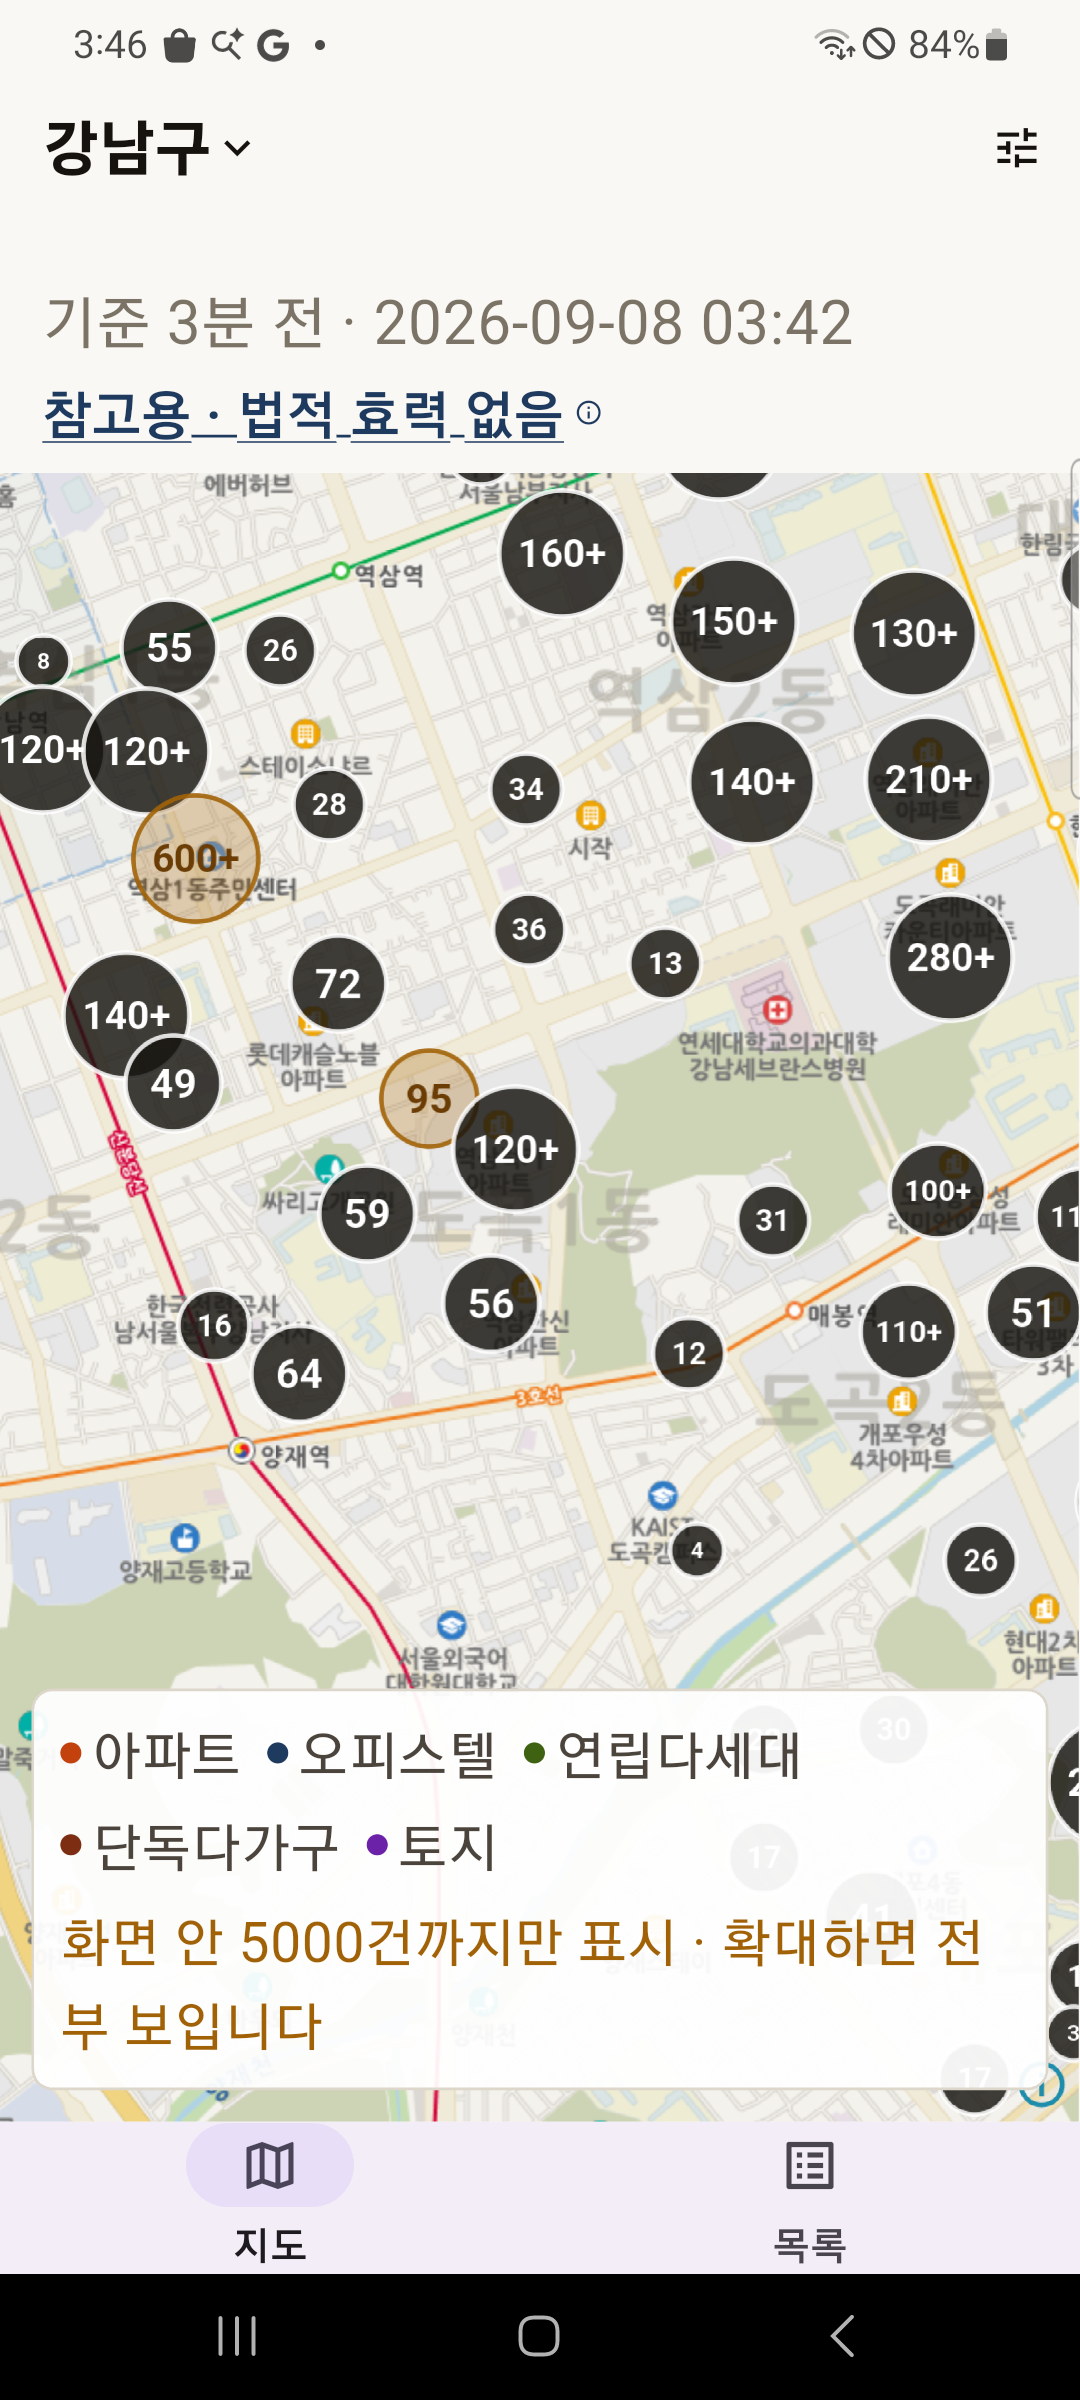
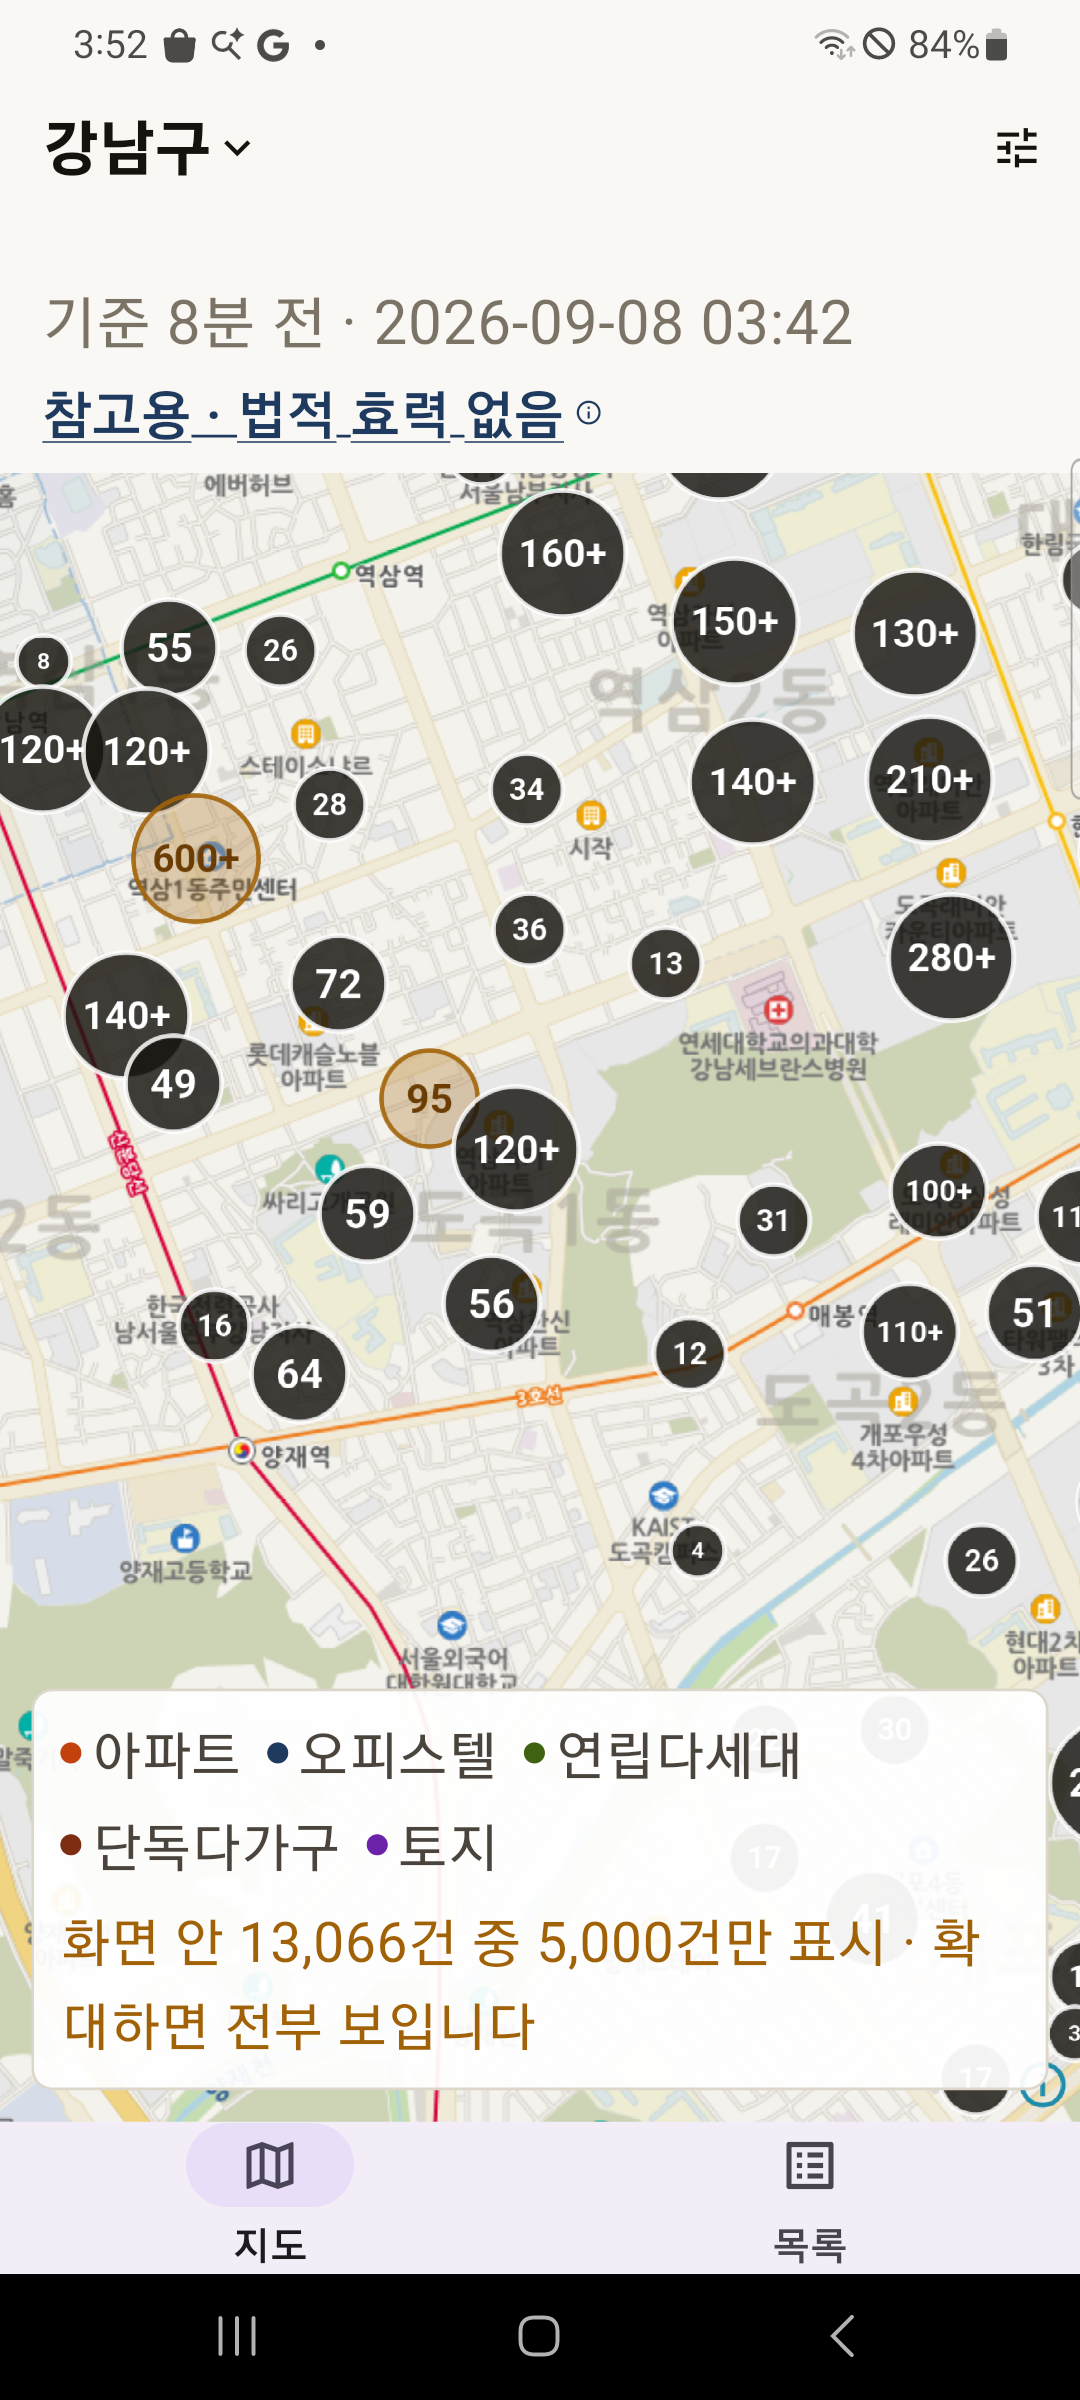
chore: 건수를 천 단위로 끊는다 · 스토어 스크린샷
5971과 5,971은 읽는 속도가 다르다. 지도와 목록 위의 문장은 스치듯 읽히므로
자릿수를 셀 필요가 없어야 한다. 12개월 적재로 건수가 네 자리를 넘으면서
눈에 띄었다.

스토어 스크린샷 다섯 장은 실기기 실제 화면이다 (강남구 12개월).
합성하거나 없는 기능을 그린 것은 없다 — 받아 보고 다른 앱이면 그때 잃는 것이
심사보다 크다.

diff --git a/app/lib/features/list/list_page.dart b/app/lib/features/list/list_page.dart
@@ -102,7 +102,7 @@ class _UnmappedBanner extends StatelessWidget {
         border: const Border(left: BorderSide(color: Palette.warn, width: 3)),
       ),
       child: Text(
-        '지도 미표시 $count건 — 원천이 지번을 공개하지 않아 좌표를 만들 수 없는 '
+        '지도 미표시 ${formatCount(count)}건 — 원천이 지번을 공개하지 않아 좌표를 만들 수 없는 '
         '거래입니다. 목록에는 전부 있습니다.',
         style: const TextStyle(
           fontSize: 12.5,
